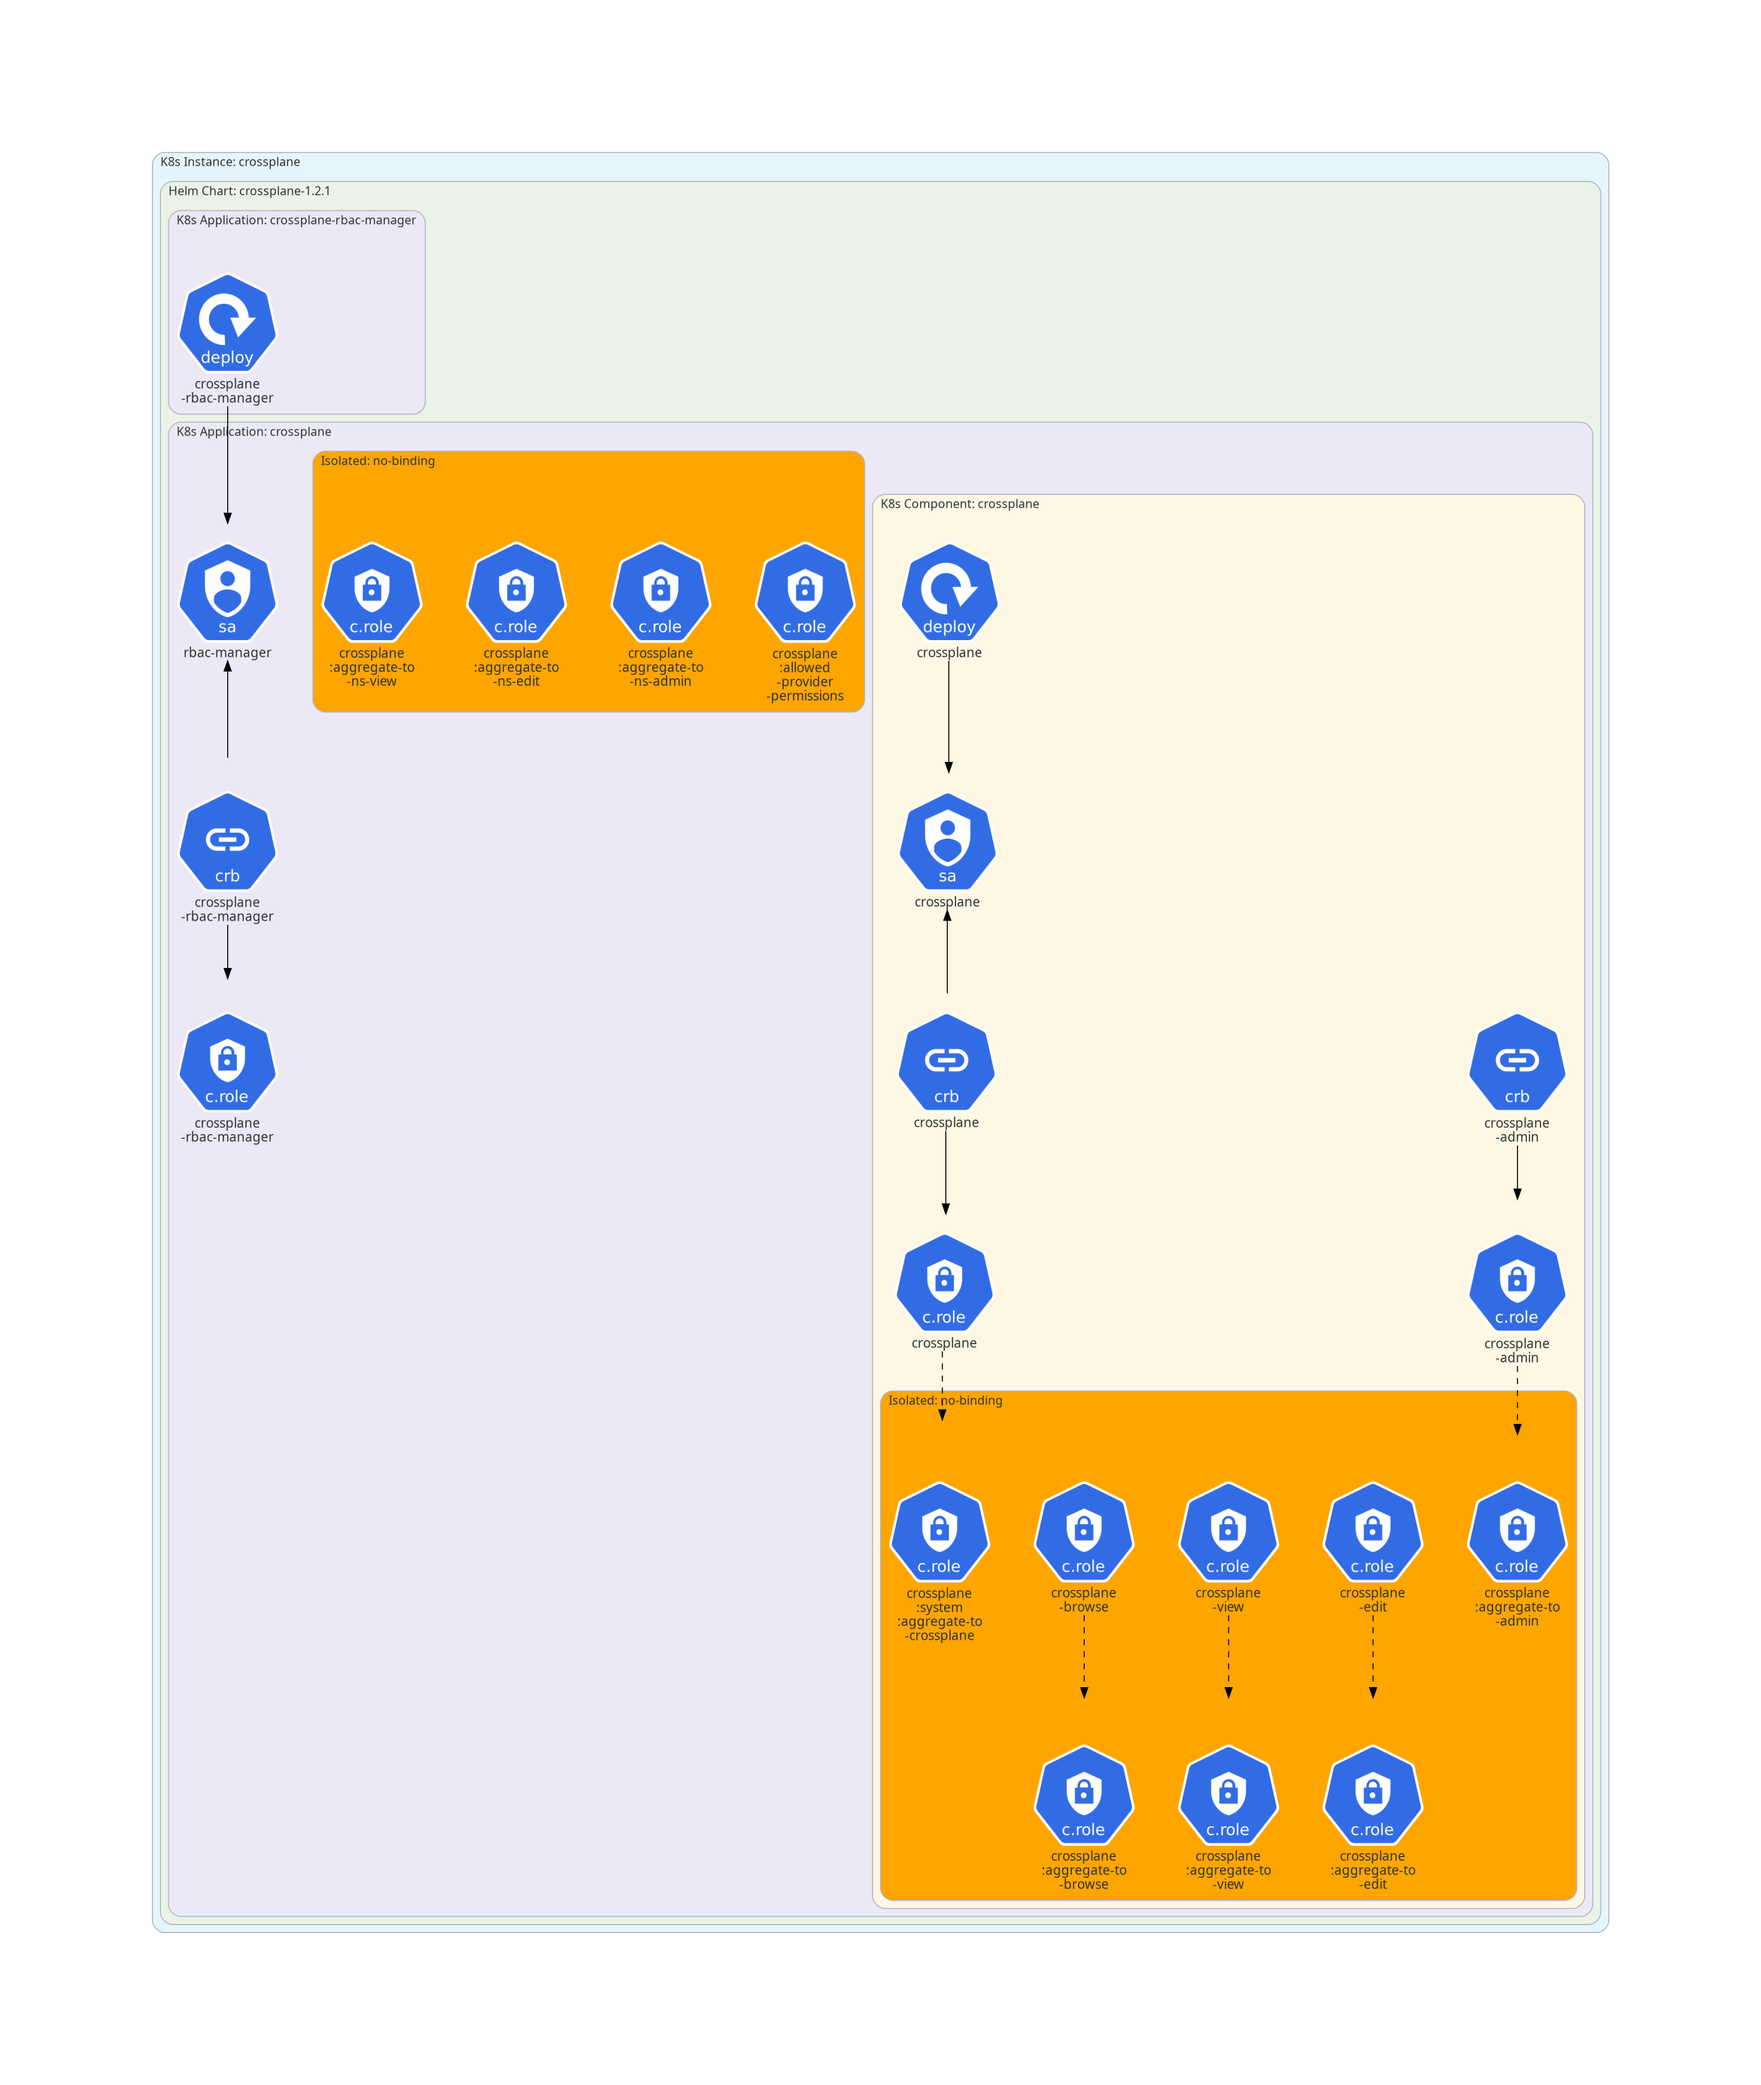
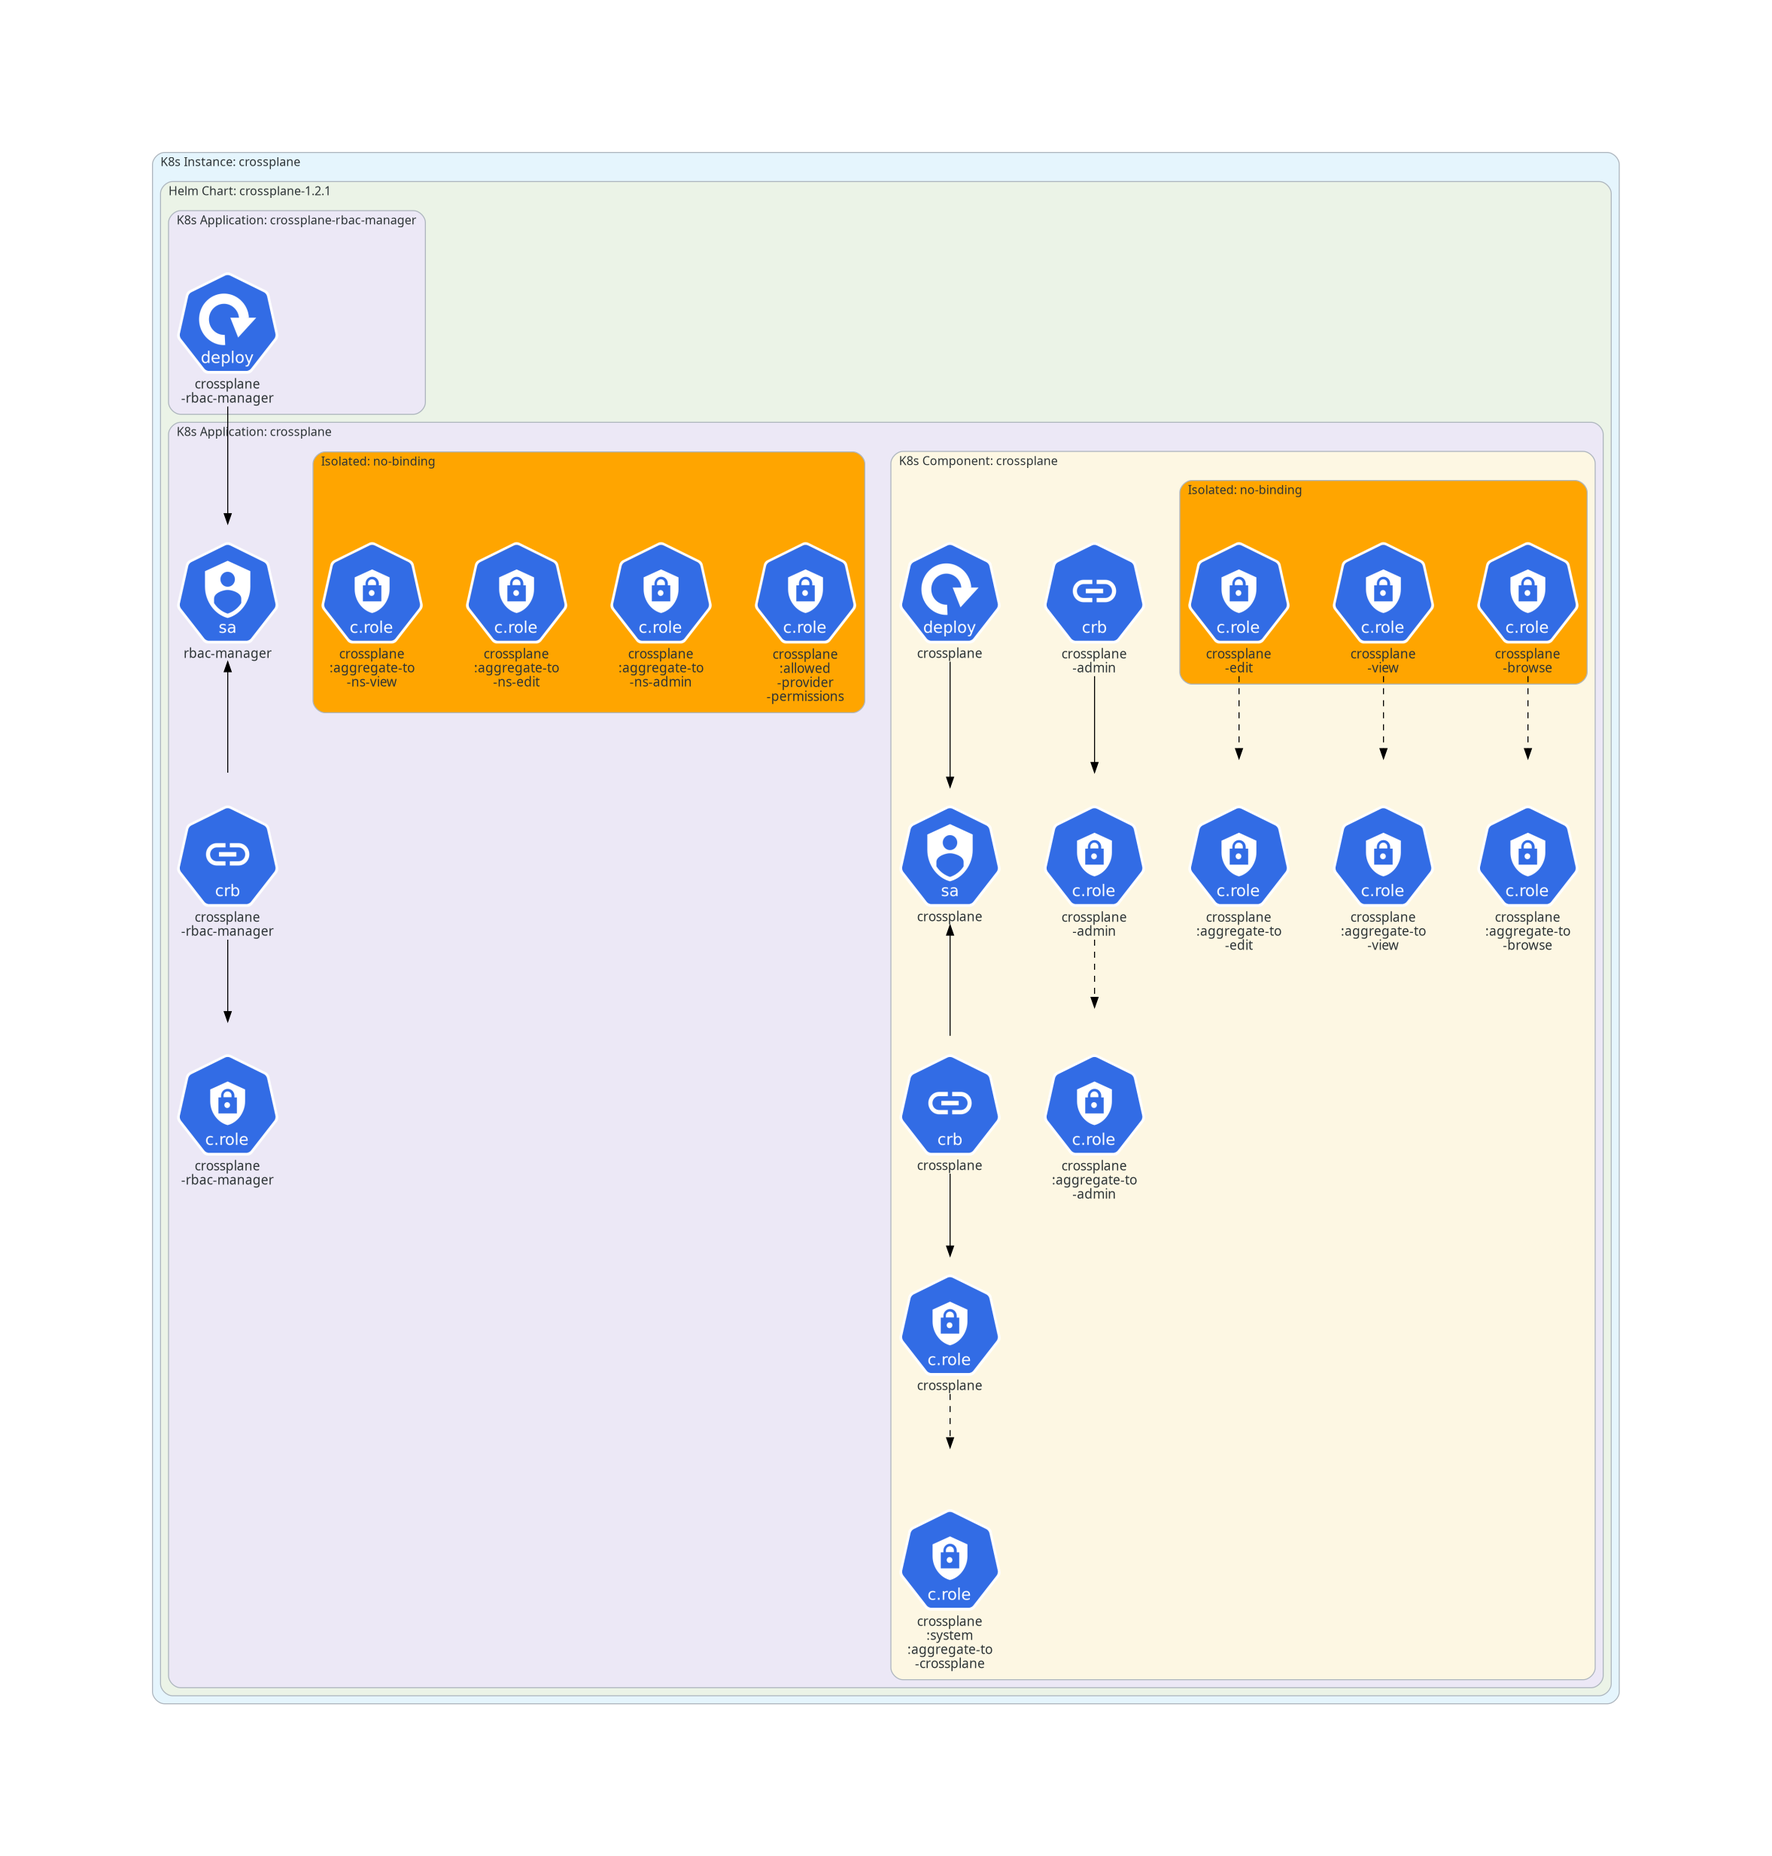
isolation algo : update c.role->c.role dashed edge rule

Changed region(s): [[0.0935, 0.0624, 0.9355, 0.9364], [0.5925, 0.2497, 0.9043, 0.3745], [0.5925, 0.437, 0.9043, 0.5618]]

diff --git a/src/kubefix/algo_mark_isolated.py b/src/kubefix/algo_mark_isolated.py
@@ -45,6 +45,19 @@ def _k8s_aggregate_labels(config):
 
     return keys if keys else list(K8S_AGGREGATE_LABELS)
 
+def _aggregated_crole_rids(edges, resources_by_rid):
+    """Rids of ClusterRoles aggregated (whose rules are merged) into another ClusterRole
+    (through that role's aggregationRule label selector, drawn as a SELECTOR edge).
+    They don't need their own binding: they are used through the role that includes them."""
+
+    
+    aggregated_rids = {
+        to for frm, to, k in edges
+        if k == "SELECTOR" and resources_by_rid[frm]["kind"] == "ClusterRole"
+    }
+    return aggregated_rids
+
+
 
 def _isolated_no_relation(resources, parent_map, child_map, config, warnings, stats):
     """Add an 'isolated-resource' label to resources who doesn't have any relations 
@@ -87,7 +100,7 @@ def _isolated_no_relation(resources, parent_map, child_map, config, warnings, st
                             changed_labels=label_change_count
                         ))
 
-def _isolated_missing_relation(resources, parent_map, child_map, config, resources_by_rid, warnings, stats):
+def _isolated_missing_relation(resources, parent_map, child_map, config, resources_by_rid, aggregated_crole_rids, warnings, stats):
     """Add an 'isolated-resource' label to bindings that have a missing role and/or
     subject, roles that have a missing binding, and service accounts not used by any workload.
 
@@ -97,6 +110,7 @@ def _isolated_missing_relation(resources, parent_map, child_map, config, resourc
         child_map: dict mapping a rid to the rids it points to.
         config: edges configuration, used to compute rids and find built-in roles.
         resources_by_rid: dict mapping a rid to its resource.
+        aggregated_crole_rids: set of ClusterRole rids aggregated into another ClusterRole.
         warnings: list of Warning, appended to in place.
         stats: list of Stat, appended to in place.
     """
@@ -152,6 +166,7 @@ def _isolated_missing_relation(resources, parent_map, child_map, config, resourc
 
             # no relations at all is already marked by _isolated_no_relation
             parents = [resources_by_rid[p]["kind"] for p in parent_map.get(rid, [])]
+
             # check if this SA has workloads. No parent other than bindings = no workloads
             if parents and all(k in BINDINGS for k in parents):
                 reasons.append(("no-workload", "Resource is a service account but has no edge from a workload"))
@@ -162,6 +177,11 @@ def _isolated_missing_relation(resources, parent_map, child_map, config, resourc
                 continue
 
             parents = [resources_by_rid[p]["kind"] for p in parent_map.get(rid, [])]
+
+            # aggregated into another ClusterRole: its rules are granted through that role
+            if rid in aggregated_crole_rids:
+                continue
+            
             if not any(k in BINDINGS for k in parents):
                 reasons.append(("no-binding", "Resource is a role but has no edge from a binding"))
 
@@ -222,8 +242,11 @@ def algo_mark_isolated(resources):
     # 1. check relation isolation
     _isolated_no_relation(resources, parent_map, child_map, config, warnings, stats)
 
+    # compute croles that aggregate other croles through dashed edges
+    aggregated_crole_rids = _aggregated_crole_rids(edges, resources_by_rid)
+
     # 2. check missing relation isolation
-    _isolated_missing_relation(resources, parent_map, child_map, config, resources_by_rid, warnings, stats)
+    _isolated_missing_relation(resources, parent_map, child_map, config, resources_by_rid, aggregated_crole_rids, warnings, stats)
 
     # 3. check label isolation
     for resource in resources:
